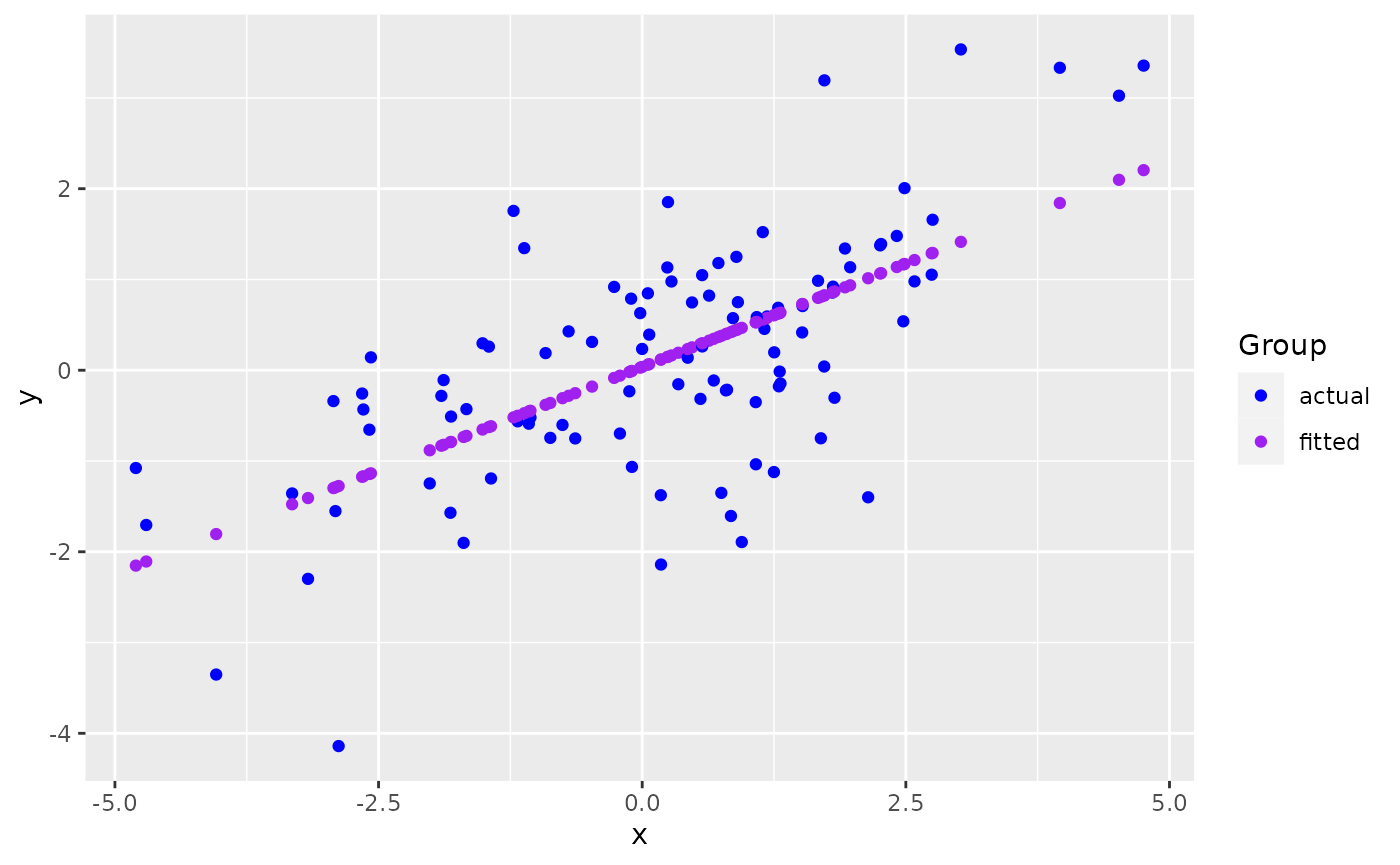
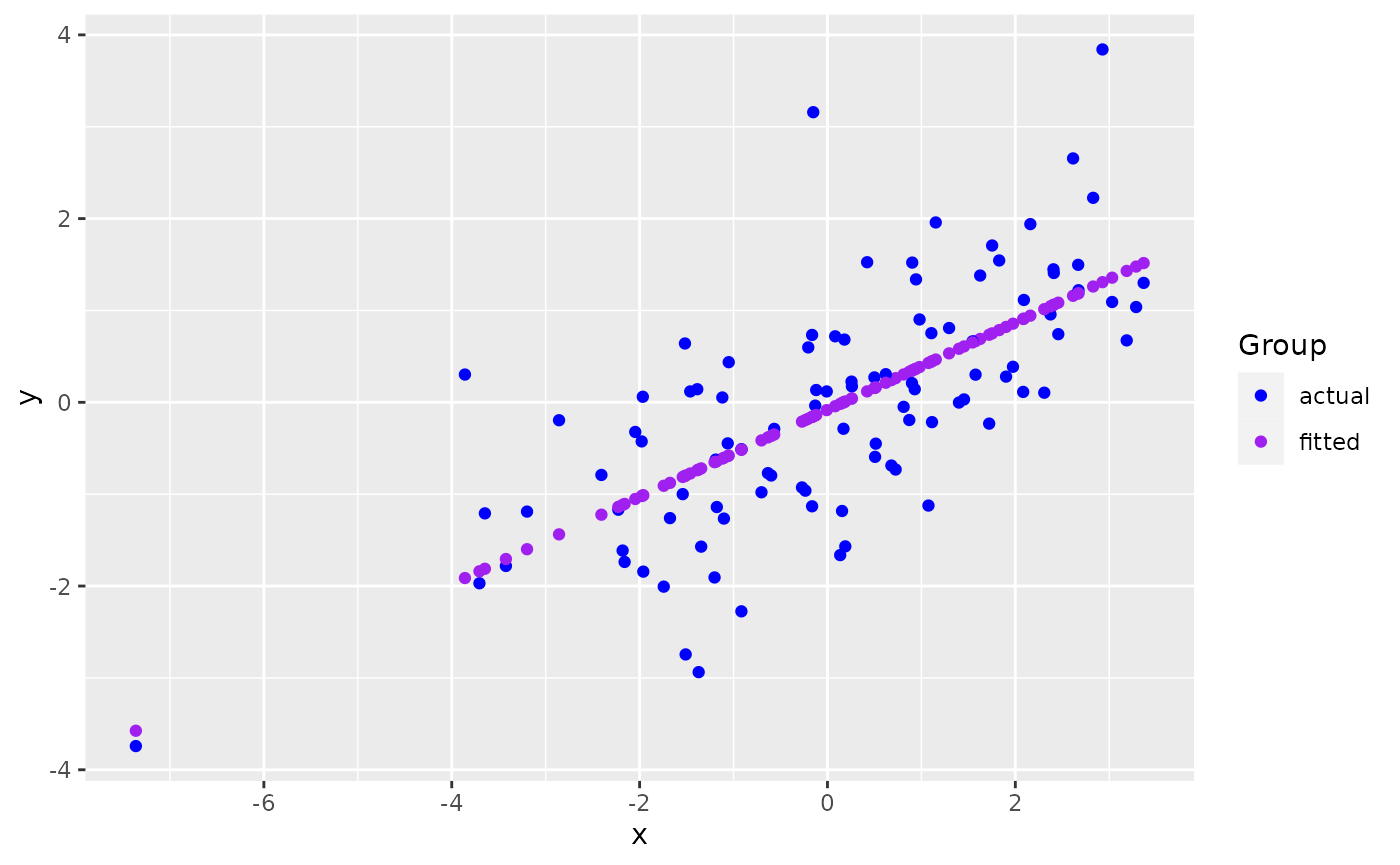
Built site for ggmatplot: 0.1.1@05020bf

diff --git a/articles/ggmatplot.html b/articles/ggmatplot.html
@@ -49,7 +49,7 @@
   <a href="../reference/ggmatplot.html">Reference</a>
 </li>
 <li class="dropdown">
-  <a href="#" class="dropdown-toggle" data-toggle="dropdown" role="button" aria-expanded="false">
+  <a href="#" class="dropdown-toggle" data-toggle="dropdown" role="button" data-bs-toggle="dropdown" aria-expanded="false">
     Vignettes
      
     <span class="caret"></span>
@@ -103,7 +103,7 @@
 <span class="va">x</span> <span class="op">&lt;-</span> <span class="fu"><a href="https://rdrr.io/r/base/c.html" class="external-link">c</a></span><span class="op">(</span><span class="fu"><a href="https://rdrr.io/r/stats/Normal.html" class="external-link">rnorm</a></span><span class="op">(</span><span class="fl">100</span>, sd <span class="op">=</span> <span class="fl">2</span><span class="op">)</span><span class="op">)</span>
 
 <span class="fu"><a href="https://rdrr.io/r/utils/head.html" class="external-link">head</a></span><span class="op">(</span><span class="va">x</span><span class="op">)</span>
-<span class="co">#&gt; [1]  3.9602437  0.7502731  1.6939813 -1.6935775  2.4875818 -2.9279476</span>
+<span class="co">#&gt; [1] -0.5670158 -0.2045380  3.1857054 -1.1192392  3.3659301  0.9425991</span>
 
 <span class="co"># matrix z</span>
 <span class="va">y</span> <span class="op">&lt;-</span> <span class="va">x</span> <span class="op">*</span> <span class="fl">0.5</span> <span class="op">+</span> <span class="fu"><a href="https://rdrr.io/r/stats/Normal.html" class="external-link">rnorm</a></span><span class="op">(</span><span class="fl">100</span>, sd <span class="op">=</span> <span class="fl">1</span><span class="op">)</span>
@@ -112,13 +112,13 @@
            fitted <span class="op">=</span> <span class="va">fit.y</span><span class="op">)</span>
 
 <span class="fu"><a href="https://rdrr.io/r/utils/head.html" class="external-link">head</a></span><span class="op">(</span><span class="va">z</span><span class="op">)</span>
-<span class="co">#&gt;       actual     fitted</span>
-<span class="co">#&gt; 1  3.3321607  1.8420994</span>
-<span class="co">#&gt; 2 -1.3512357  0.3786939</span>
-<span class="co">#&gt; 3 -0.7499217  0.8089246</span>
-<span class="co">#&gt; 4 -1.9020067 -0.7354423</span>
-<span class="co">#&gt; 5  2.0060659  1.1707221</span>
-<span class="co">#&gt; 6 -0.3399754 -1.2981839</span></code></pre></div>
+<span class="co">#&gt;        actual     fitted</span>
+<span class="co">#&gt; 1 -0.28913428 -0.3503597</span>
+<span class="co">#&gt; 2  0.59782093 -0.1783568</span>
+<span class="co">#&gt; 3  0.67405171  1.4303811</span>
+<span class="co">#&gt; 4  0.05277882 -0.6124007</span>
+<span class="co">#&gt; 5  1.30020555  1.5159013</span>
+<span class="co">#&gt; 6  1.33824711  0.3659825</span></code></pre></div>
 <p><code>ggmatplot</code> plots vector <code>x</code> against each column of matrix <code>z</code> using the default <code>plot_type = "point"</code>. This will be represented on the resulting plot as two groups, identified using different shapes and colors.</p>
 <div class="sourceCode" id="cb2"><pre class="downlit sourceCode r">
 <code class="sourceCode R"><span class="kw"><a href="https://rdrr.io/r/base/library.html" class="external-link">library</a></span><span class="op">(</span><span class="va"><a href="https://github.com/xuan-liang/ggmatplot" class="external-link">ggmatplot</a></span><span class="op">)</span>

diff --git a/reference/ggmatplot.html b/reference/ggmatplot.html
@@ -34,7 +34,7 @@ ggplot2."><!-- mathjax --><script src="https://cdnjs.cloudflare.com/ajax/libs/ma
   <a href="../reference/ggmatplot.html">Reference</a>
 </li>
 <li class="dropdown">
-  <a href="#" class="dropdown-toggle" data-toggle="dropdown" role="button" aria-expanded="false">
+  <a href="#" class="dropdown-toggle" data-toggle="dropdown" role="button" data-bs-toggle="dropdown" aria-expanded="false">
     Vignettes
      
     <span class="caret"></span>

diff --git a/404.html b/404.html
@@ -48,7 +48,7 @@
   <a href="url/reference/ggmatplot.html">Reference</a>
 </li>
 <li class="dropdown">
-  <a href="url/#" class="dropdown-toggle" data-toggle="dropdown" role="button" aria-expanded="false">
+  <a href="url/#" class="dropdown-toggle" data-toggle="dropdown" role="button" data-bs-toggle="dropdown" aria-expanded="false">
     Vignettes
      
     <span class="caret"></span>

diff --git a/articles/index.html b/articles/index.html
@@ -32,7 +32,7 @@
   <a href="../reference/ggmatplot.html">Reference</a>
 </li>
 <li class="dropdown">
-  <a href="#" class="dropdown-toggle" data-toggle="dropdown" role="button" aria-expanded="false">
+  <a href="#" class="dropdown-toggle" data-toggle="dropdown" role="button" data-bs-toggle="dropdown" aria-expanded="false">
     Vignettes
      
     <span class="caret"></span>

diff --git a/news/index.html b/news/index.html
@@ -32,7 +32,7 @@
   <a href="../reference/ggmatplot.html">Reference</a>
 </li>
 <li class="dropdown">
-  <a href="#" class="dropdown-toggle" data-toggle="dropdown" role="button" aria-expanded="false">
+  <a href="#" class="dropdown-toggle" data-toggle="dropdown" role="button" data-bs-toggle="dropdown" aria-expanded="false">
     Vignettes
      
     <span class="caret"></span>

diff --git a/reference/index.html b/reference/index.html
@@ -32,7 +32,7 @@
   <a href="../reference/ggmatplot.html">Reference</a>
 </li>
 <li class="dropdown">
-  <a href="#" class="dropdown-toggle" data-toggle="dropdown" role="button" aria-expanded="false">
+  <a href="#" class="dropdown-toggle" data-toggle="dropdown" role="button" data-bs-toggle="dropdown" aria-expanded="false">
     Vignettes
      
     <span class="caret"></span>

diff --git a/LICENSE.html b/LICENSE.html
@@ -32,7 +32,7 @@
   <a href="reference/ggmatplot.html">Reference</a>
 </li>
 <li class="dropdown">
-  <a href="#" class="dropdown-toggle" data-toggle="dropdown" role="button" aria-expanded="false">
+  <a href="#" class="dropdown-toggle" data-toggle="dropdown" role="button" data-bs-toggle="dropdown" aria-expanded="false">
     Vignettes
      
     <span class="caret"></span>

diff --git a/authors.html b/authors.html
@@ -32,7 +32,7 @@
   <a href="reference/ggmatplot.html">Reference</a>
 </li>
 <li class="dropdown">
-  <a href="#" class="dropdown-toggle" data-toggle="dropdown" role="button" aria-expanded="false">
+  <a href="#" class="dropdown-toggle" data-toggle="dropdown" role="button" data-bs-toggle="dropdown" aria-expanded="false">
     Vignettes
      
     <span class="caret"></span>

diff --git a/index.html b/index.html
@@ -53,7 +53,7 @@
   <a href="reference/ggmatplot.html">Reference</a>
 </li>
 <li class="dropdown">
-  <a href="#" class="dropdown-toggle" data-toggle="dropdown" role="button" aria-expanded="false">
+  <a href="#" class="dropdown-toggle" data-toggle="dropdown" role="button" data-bs-toggle="dropdown" aria-expanded="false">
     Vignettes
      
     <span class="caret"></span>
